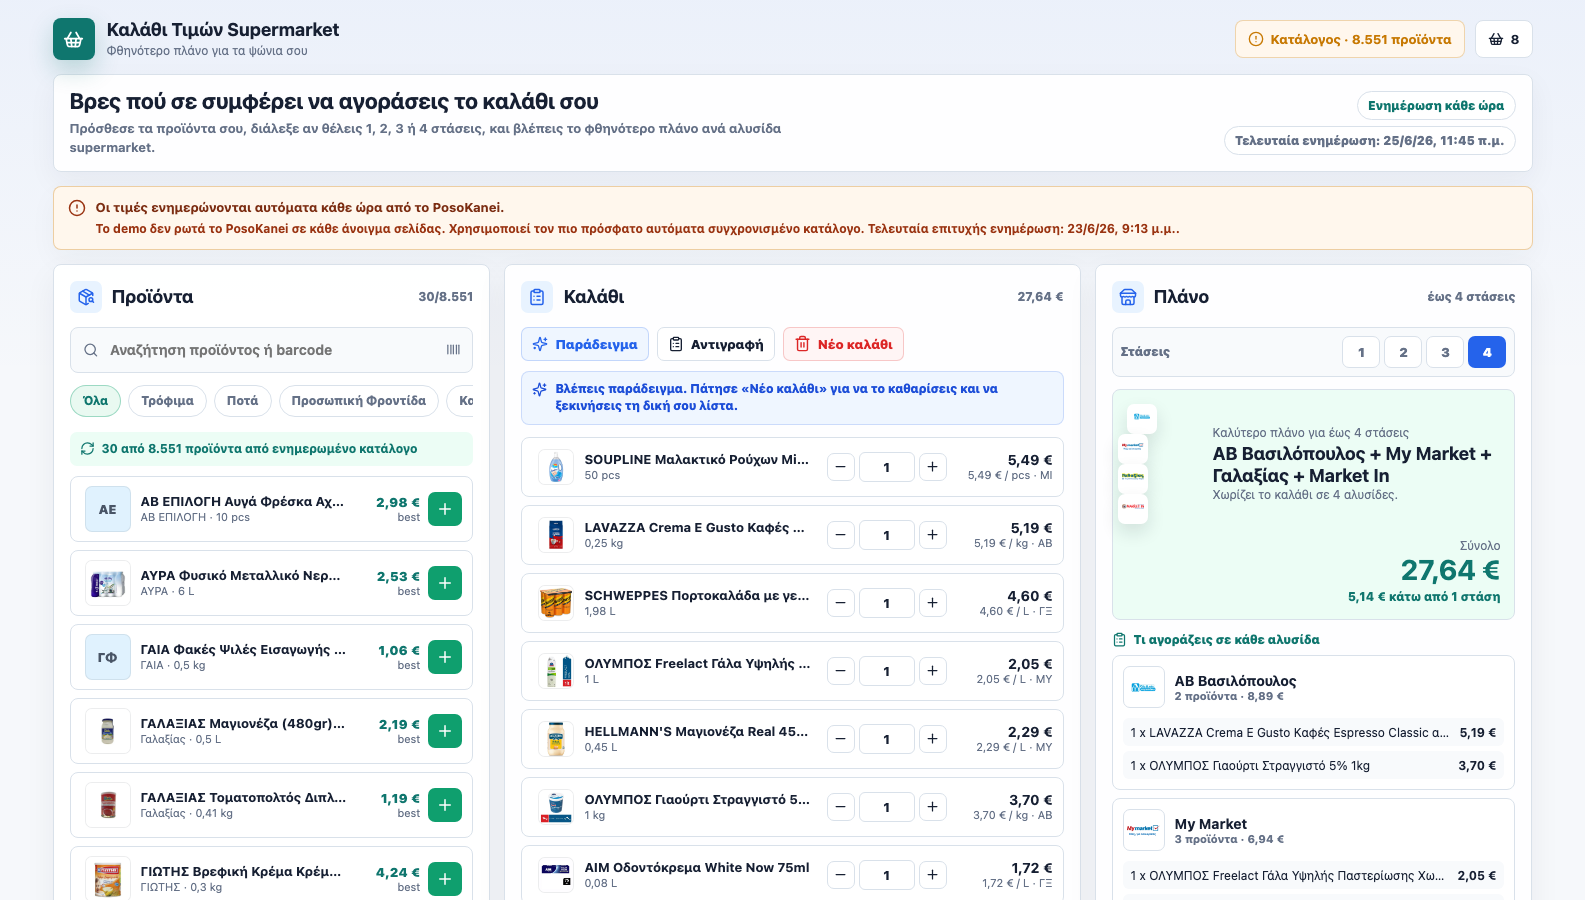
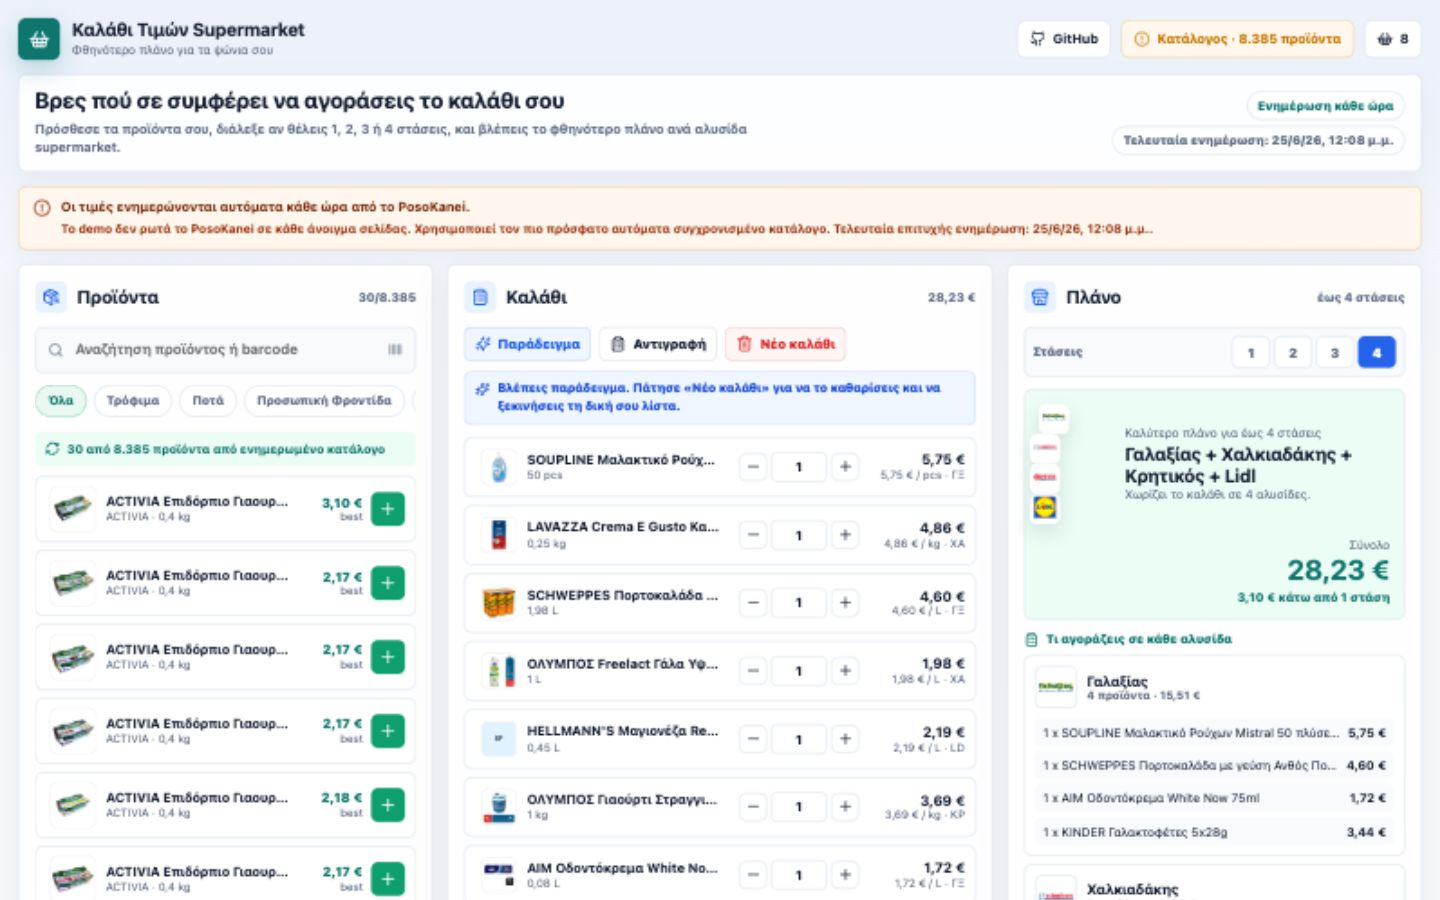
Add GitHub link to app header

diff --git a/src/styles.css b/src/styles.css
@@ -101,6 +101,7 @@ button {
   flex-wrap: wrap;
 }
 
+.repo-link,
 .source-status,
 .basket-pill {
   display: inline-flex;
@@ -112,6 +113,19 @@ button {
   color: var(--muted);
   font-size: 13px;
   font-weight: 700;
+}
+
+.repo-link {
+  gap: 7px;
+  padding: 0 12px;
+  color: var(--text);
+  text-decoration: none;
+}
+
+.repo-link:hover,
+.repo-link:focus-visible {
+  border-color: rgba(37, 99, 235, 0.35);
+  color: var(--blue);
 }
 
 .source-status {

diff --git a/src/App.jsx b/src/App.jsx
@@ -6,6 +6,7 @@ import {
   ChevronRight,
   CircleDollarSign,
   ClipboardList,
+  Github,
   Info,
   Minus,
   PackageSearch,
@@ -45,6 +46,7 @@ import {
 
 const BASKET_KEY = "posokanei-basket";
 const LIVE_BASKET_PRODUCTS_KEY = "posokanei-live-basket-products";
+const REPOSITORY_URL = "https://github.com/spirosrap/posokanei-basket-demo";
 const IMAGE_PROXY_BASE = import.meta.env.DEV
   ? "https://agenticspiros.com/demo/posokanei-basket/api/posokanei.php"
   : "./api/posokanei.php";
@@ -436,6 +438,17 @@ function Header({ health, basketCount }) {
       </a>
 
       <div className="topbar-actions">
+        <a
+          className="repo-link"
+          href={REPOSITORY_URL}
+          target="_blank"
+          rel="noreferrer"
+          title="Άνοιγμα κώδικα στο GitHub"
+          aria-label="Άνοιγμα του αποθετηρίου στο GitHub"
+        >
+          <Github size={16} aria-hidden="true" />
+          <span>GitHub</span>
+        </a>
         <div
           className={`source-status ${isOnline ? "online" : isCached ? "cached" : "offline"}`}
           title="Κατάσταση API PosoKanei"

diff --git a/README.md b/README.md
@@ -8,6 +8,8 @@ This is an unofficial app. It is not affiliated with PosoKanei or any supermarke
 
 Live app: [agenticspiros.com/demo/posokanei-basket](https://agenticspiros.com/demo/posokanei-basket/)
 
+Source code: [github.com/spirosrap/posokanei-basket-demo](https://github.com/spirosrap/posokanei-basket-demo)
+
 ![Desktop screenshot showing the starter basket and supermarket stop comparison](screenshots/desktop.png)
 
 ## Ελληνικά
@@ -25,6 +27,8 @@ Live app: [agenticspiros.com/demo/posokanei-basket](https://agenticspiros.com/de
 Για παράδειγμα, αν θέλεις να πας μόνο σε ένα supermarket, η εφαρμογή ταξινομεί τις αλυσίδες από τη φθηνότερη έως την ακριβότερη για ολόκληρο το καλάθι. Αν αντέχεις δύο ή τρεις στάσεις, υπολογίζει αν συμφέρει να χωριστεί η λίστα σε περισσότερες αλυσίδες.
 
 Η εφαρμογή ανοίγει με καλάθι παραδείγματος, ώστε να φαίνεται αμέσως γιατί έχει νόημα η σύγκριση `1`, `2`, `3` ή `4` στάσεων. Ο χρήστης μπορεί να πατήσει καθαρισμό και να ξεκινήσει δική του λίστα χωρίς να χρειάζεται να καταλάβει κάποιο ξεχωριστό demo mode.
+
+Ο κώδικας είναι δημόσιος στο GitHub: [github.com/spirosrap/posokanei-basket-demo](https://github.com/spirosrap/posokanei-basket-demo). Η εφαρμογή έχει και σύνδεσμο `GitHub` στην κορυφή της σελίδας, ώστε όποιος τη δοκιμάζει να μπορεί να δει άμεσα το repository.
 
 Η εφαρμογή προσπαθεί πρώτα να διαβάσει live προϊόντα, φωτογραφίες και τιμές μέσω μικρού PHP proxy, επειδή το επίσημο API δεν επιτρέπει απευθείας browser requests από τρίτα domains. Αν ο proxy μπλοκαριστεί, ο ίδιος PHP endpoint απαντά από τον πιο πρόσφατο συγχρονισμένο κατάλογο, σε μικρές σελίδες αποτελεσμάτων, ώστε ο browser να μη φορτώνει ολόκληρο το αρχείο. Οι φωτογραφίες προϊόντων περνούν επίσης από same-origin proxy, για να εμφανίζονται σταθερά σε Safari και σε browsers που μπλοκάρουν ή απορρίπτουν τα direct image requests.
 
@@ -50,6 +54,7 @@ Live app: [agenticspiros.com/demo/posokanei-basket](https://agenticspiros.com/de
 - Open product detail with barcode, unit, description, a large product photo, and per-chain prices.
 - Load official product photos through a same-origin image proxy with fallback handling.
 - Show supermarket chain logos in rankings, multi-stop plans, and product price rows.
+- Link from the app header to the public GitHub repository.
 - Browse/search the official catalog with pagination instead of a fixed sample list.
 - Show the last product/price update check in the UI.
 - Provide scheduler-friendly update and snapshot refresh scripts.